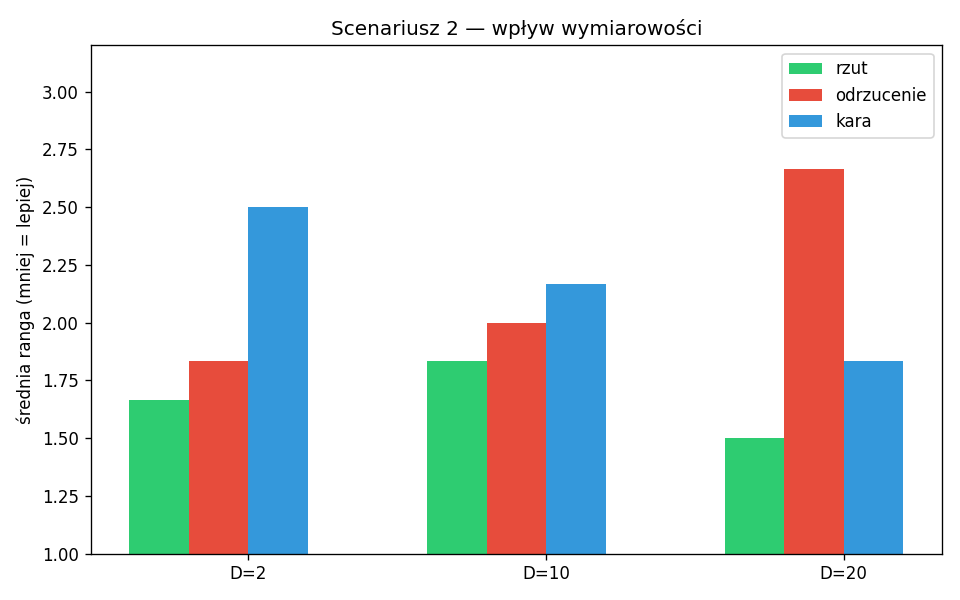
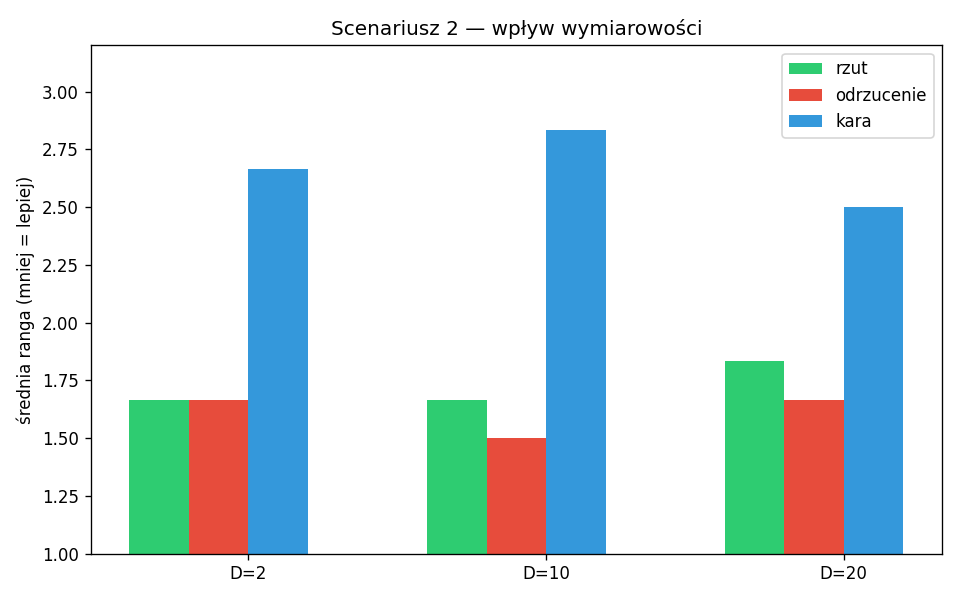
updated reject and project functions

diff --git a/constraints.py b/constraints.py
@@ -33,8 +33,8 @@ def clip_to_box(x, lb, ub):
     return np.minimum(np.maximum(x, lb), ub)
 
 
-def project_toward_mean(x, mean, problem, steps=80):
-    """Rzut w stronę średniej populacji — pierwszy dopuszczalny punkt na odcinku."""
+def project_toward_mean(x, mean, problem, max_iters=10):
+    """Rzut w stronę średniej populacji z użyciem wyszukiwania binarnego."""
     x = np.asarray(x, dtype=float)
     mean = np.asarray(mean, dtype=float)
     if is_feasible(problem, x):
@@ -45,32 +45,43 @@ def project_toward_mean(x, mean, problem, steps=80):
         lb, ub = _lb_ub(problem)
         return clip_to_box(x, lb, ub)
 
-    t_ok = 1.0
-    for i in range(steps + 1):
-        t = i / steps
-        p = x + t * d
+    if not is_feasible(problem, mean):
+        lb, ub = _lb_ub(problem)
+        return clip_to_box(mean, lb, ub)
+
+    t_inf = 0.0
+    t_feas = 1.0
+
+    for _ in range(max_iters):
+        t_mid = (t_inf + t_feas) / 2.0
+        p = x + t_mid * d
+
         if is_feasible(problem, p):
-            t_ok = t
-            break
-    return x + t_ok * d
+            t_feas = t_mid
+        else:
+            t_inf = t_mid
+
+    return x + t_feas * d
 
 
-def random_feasible(problem, rng, tries=3000):
-    lb, ub = _lb_ub(problem)
-    for _ in range(tries):
-        x = rng.uniform(lb, ub)
-        if is_feasible(problem, x):
-            return x
-    return clip_to_box(rng.uniform(lb, ub), lb, ub)
-
-
-def fix_candidate(x, mean, problem, method, rng):
+def fix_candidate(x, problem, method, es, tries=100):
     if method == "project":
-        return project_toward_mean(x, mean, problem)
+        return project_toward_mean(x, np.array(es.mean), problem)
+
     if method == "reject":
         if is_feasible(problem, x):
             return np.asarray(x, dtype=float)
-        return random_feasible(problem, rng)
+
+        for _ in range(tries):
+            new_x = np.asarray(es.ask(1)[0], dtype=float)
+            if is_feasible(problem, new_x):
+                return new_x
+
+        # fallback
+        lb, ub = _lb_ub(problem)
+        return clip_to_box(np.asarray(x, dtype=float), lb, ub)
+
     if method == "penalty":
         return np.asarray(x, dtype=float)
+
     raise ValueError(f"nieznana metoda: {method}")

diff --git a/optimizer.py b/optimizer.py
@@ -18,7 +18,6 @@ def run_cmaes(problem, method="project", max_evals=2000, seed=0, sigma_scale=0.2
     problem — obiekt cocoex z suite bbob-constrained
     method: project | reject | penalty
     """
-    rng = np.random.default_rng(seed)
     x0 = np.array(problem.initial_solution, dtype=float)
     lb = np.array(problem.lower_bounds, dtype=float)
     ub = np.array(problem.upper_bounds, dtype=float)
@@ -37,13 +36,12 @@ def run_cmaes(problem, method="project", max_evals=2000, seed=0, sigma_scale=0.2
 
     while not es.stop() and evals < max_evals:
         solutions = es.ask()
-        mean = np.array(es.mean)
         fitnesses = []
         fixed = []
 
         for sol in solutions:
             x = np.array(sol, dtype=float)
-            x = fix_candidate(x, mean, problem, method, rng)
+            x = fix_candidate(x, problem, method, es)
             fixed.append(x.tolist())
             fitnesses.append(eval_fitness(x, problem, method))
             evals += 1
@@ -54,7 +52,7 @@ def run_cmaes(problem, method="project", max_evals=2000, seed=0, sigma_scale=0.2
 
     best_x = np.array(es.result.xfavorite)
     if method in ("project", "reject"):
-        best_x = fix_candidate(best_x, np.array(es.mean), problem, method, rng)
+        best_x = fix_candidate(best_x, problem, method, es)
 
     return {
         "method": method,

diff --git a/results/report/podsumowanie.md b/results/report/podsumowanie.md
@@ -2,21 +2,21 @@
 
 ## Scenariusz 1
 - liczba przebiegów: 486
-- **rzut**: wygrane=58/162, śr. ranga=1.83, target_hit=3
-- **odrzucenie**: wygrane=60/162, śr. ranga=2.14, target_hit=0
-- **kara**: wygrane=44/162, śr. ranga=2.04, target_hit=0
+- **rzut**: wygrane=21/162, śr. ranga=2.38, target_hit=4
+- **odrzucenie**: wygrane=130/162, śr. ranga=1.25, target_hit=0
+- **kara**: wygrane=11/162, śr. ranga=2.38, target_hit=0
 
 ## Scenariusz 2
 - liczba przebiegów: 54
-- **rzut**: wygrane=10/18, śr. ranga=1.67, target_hit=0
-- **odrzucenie**: wygrane=5/18, śr. ranga=2.17, target_hit=0
-- **kara**: wygrane=3/18, śr. ranga=2.17, target_hit=0
+- **rzut**: wygrane=8/18, śr. ranga=1.72, target_hit=0
+- **odrzucenie**: wygrane=10/18, śr. ranga=1.61, target_hit=0
+- **kara**: wygrane=0/18, śr. ranga=2.67, target_hit=0
 
 ## Scenariusz 3
 - liczba przebiegów: 81
-- **rzut**: wygrane=13/27, śr. ranga=1.67, target_hit=3
-- **odrzucenie**: wygrane=3/27, śr. ranga=2.56, target_hit=0
-- **kara**: wygrane=11/27, śr. ranga=1.78, target_hit=0
+- **rzut**: wygrane=10/27, śr. ranga=2.15, target_hit=3
+- **odrzucenie**: wygrane=13/27, śr. ranga=1.63, target_hit=0
+- **kara**: wygrane=4/27, śr. ranga=2.22, target_hit=0
 
 ## Pliki wykresów
 - scenariusz 1 (pełny zestaw D=5): `scenario1_*.png`
